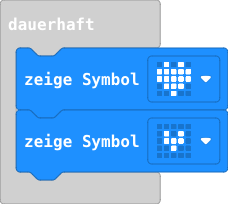
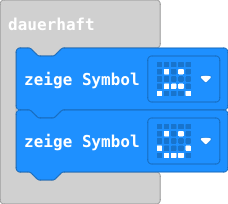
Aktualisiere main.blocks, main.ts

Changed region(s): [[0.6754, 0.2941, 0.8596, 0.4118], [0.6754, 0.6765, 0.8596, 0.7941], [0.6754, 0.4412, 0.8596, 0.4706]]

diff --git a/main.ts b/main.ts
@@ -1,4 +1,4 @@
 basic.forever(function () {
-    basic.showIcon(IconNames.Heart)
-    basic.showIcon(IconNames.SmallHeart)
+    basic.showIcon(IconNames.Sad)
+    basic.showIcon(IconNames.Happy)
 })
